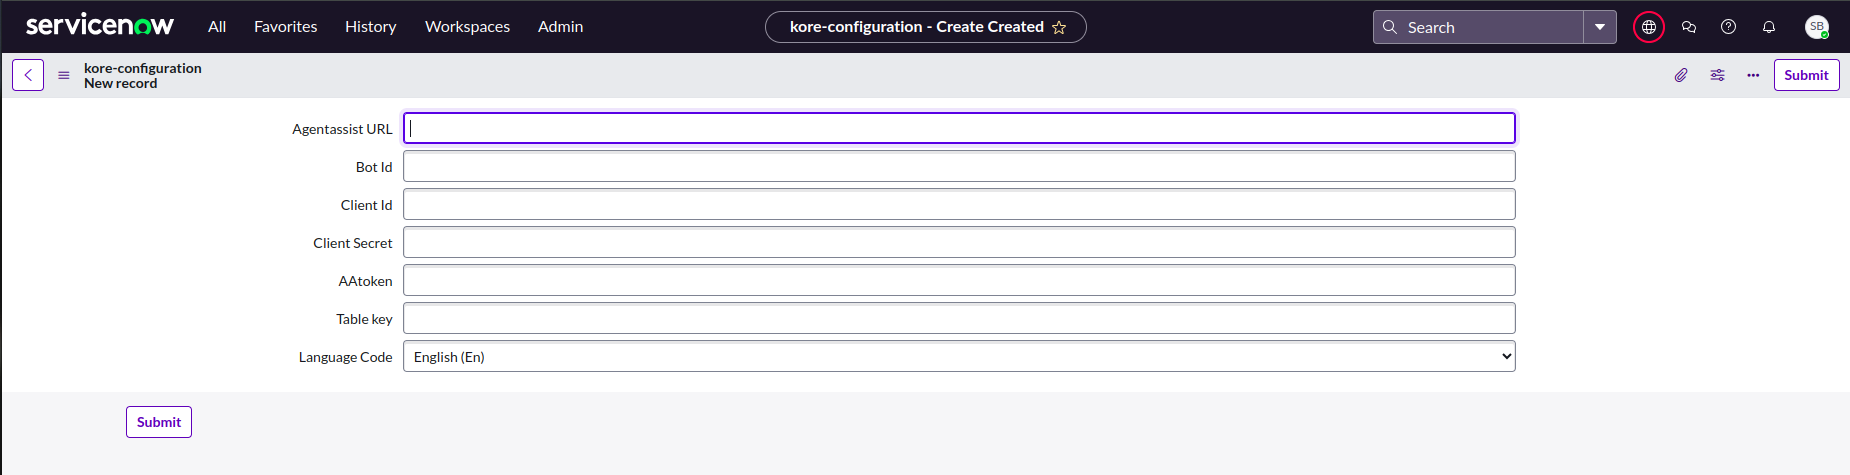
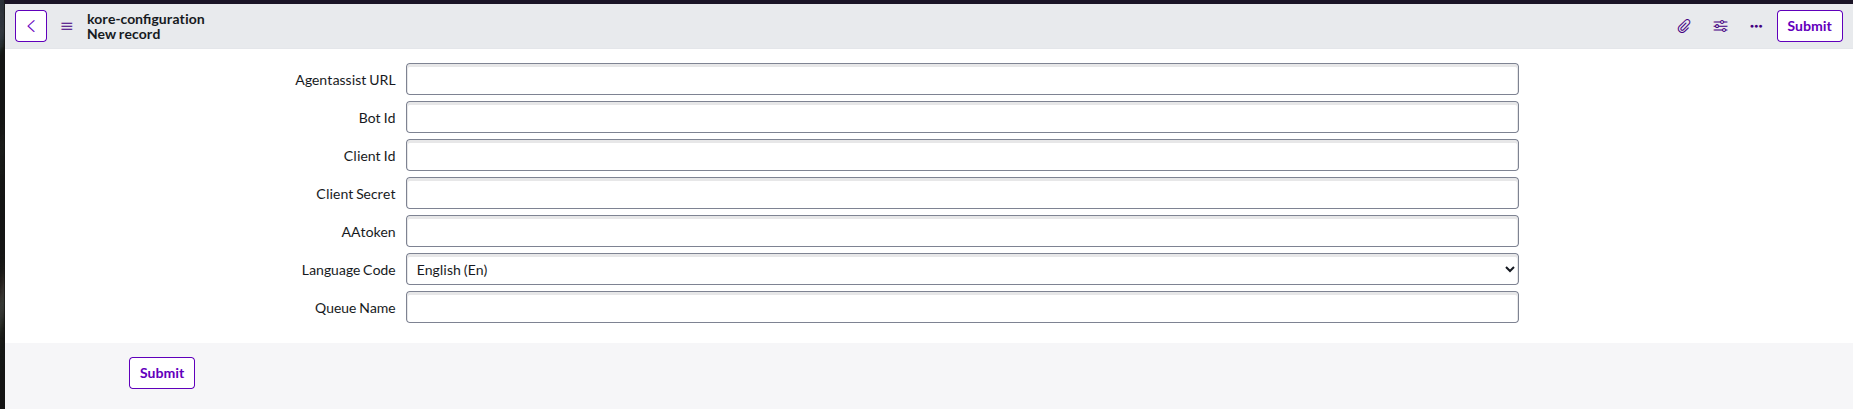
major updates on the servicenow integ doc

Changed region(s): [[0.1541, 0.176, 0.8319, 0.7922], [0.0, 0.0, 1.0, 0.2054], [0.0616, 0.8509, 0.1232, 0.9389]]

diff --git a/docs/xo/agentai/integration/servicenow/chat-integration-with-servicenow.md b/docs/xo/agentai/integration/servicenow/chat-integration-with-servicenow.md
@@ -1,6 +1,34 @@
-# Agent AI Chat Integration with ServiceNow
+# Agent AI Chat Integration with ServiceNow 
 
-This document provides detailed instructions on integrating the Agent AI widget with ServiceNow Desktop for the Chat channel. The integration supports [all Agent AI features](./../../agent-experience/agent-assist-widget-v3.md){:target=”_blank”}. It also includes an end-of-call summary and Custom Data passing, such as agent name and ID, to the Agent AI widget.
+This document provides detailed instructions on integrating the Agent AI widget with ServiceNow Desktop for the Chat channel. The integration supports [all Agent AI features](./../../agent-experience/agent-assist-widget-v3.md){:target=”_blank”}, including end-of-call summary and Custom Data passing (for example, agent name and ID) to the Agent AI widget. 
+
+## Supported ServiceNow Workspaces
+
+* HR Agent Workspace: Supported (validated)
+* IT/Service Operations Workspace: Supported (validated)
+* Other workspaces (CSM, custom): Supported, if they follow the HR-workspace pattern
+
+## Key Architectural Clarification
+
+Agent AI is a reusable UI component that you can embed in any workspace.
+
+* You must add the Agent AI component to each workspace individually.
+* Adding Agent AI to one workspace does not make it available in other workspaces within the same instance.
+* Agent AI is not automatically propagated across workspaces.
+
+### Adding Agent AI to a Specific Workspace
+
+1. Sign in to the **ServiceNow** instance. 
+2. Search in the **All** > **Filter** navigator. 
+3. Go to **UI Builder** > **Experiences** > **Workspace Experience** > **UI Builder**. 
+4. Select the target workspace—**HR**/**IT**/**Custom**. 
+5. Add the **Agent AI by kore.ai** component to the **Record Page**.
+6. Bind it to the agent panel or desired region. Refer to the [Data Binding(sysId)](#additional-configuration-for-hr-agent-workspace-optional) section for help.  
+7. Publish the workspace.
+
+    !!! note
+
+        There is no configuration flag to associate Agent AI with a workspace. You determine the workspace by embedding the component there.
 
 ## Prerequisites
 
@@ -12,7 +40,7 @@ This section outlines the essential components, credentials, and permissions req
         * Configured to receive desktop chats
     * Agent AI Account
         * Enabled Web/Mobile channel
-        * Required AI Agent credentials: Bot ID, Client ID, Client Secret, and Widget URL (Credential Location: Go to **agent ai** > **Flows and Channels** > **Channels** > **Digital** > **Web/Mobile Client** > **JWT App Details**.)
+        * Required AI Agent credentials: Bot ID, Client ID, Client Secret, and Widget URL (Credential Location: Go to **Agent AI** > **Flows and Channels** > **Channels** > **Digital** > **Web/Mobile Client** > **JWT App Details**.)
 * Roles and Permissions:
     * ServiceNow: Admin Role
     * XO Platform (Optional): Required only if you are doing an Agent Transfer from XO Platform to ServiceNow. For more information, refer to [Configuring the ServiceNow Agent – Utah and Higher versions](./../../../app-settings/integrations/agents/servicenow/configuring-the-servicenow-agent-utah-and-vancouver.md){:target=”_blank”}.
@@ -25,21 +53,21 @@ The following architecture diagram shows the interaction between ServiceNow and 
 
 ## Set Up Agent AI in ServiceNow Sandbox
 
-Setting Up Agent AI chat with ServiceNow consists of the following steps:
+Setting Up Agent AI chat with ServiceNow includes the following steps:
 
-1. Set Up Agent AI in ServiceNow Sandbox 
+* Set Up Agent AI in ServiceNow Sandbox 
     * [Download from the ServiceNow Store (recommended)](#step-1-download-from-the-servicenow-store-recommended), 
     or
     * [Install Using an Update Set](#install-using-an-update-set)
-2. [Set Up Agent AI App Configuration](#step-2-set-up-agent-ai-application-configuration)
-3. [Test the Configuration](#step-3-test-the-integration)
-4. [XO Configuration (Optional)](#step-4-xo-configuration-optional)
-5. [Using the Agent AI widget](#step-5-using-the-agent-ai-widget)
+* [Set Up Agent AI App Configuration](#step-2-set-up-agent-ai-application-configuration)
+* [Test the Configuration](#step-3-test-the-integration)
+* [XO Configuration (Optional)](#step-4-xo-configuration-optional)
+* [Using the Agent AI widget](#step-5-using-the-agent-ai-widget)
 
 ### Step 1: Download from the ServiceNow Store (recommended)
 
 1. Get the [Agent AI by Kore.ai](https://store.servicenow.com/sn_appstore_store.do#!/store/application/92d544cec3da0a9082881b6ce0013194/1.0.0?referer=%2Fstore%2Fsearch%3Flistingtype%3Dallintegrations%25253Bancillary_app%25253Bcertified_apps%25253Bcontent%25253Bindustry_solution%25253Boem%25253Butility%25253Btemplate%25253Bgenerative_ai%25253Bsnow_solution%26q%3Dkore&sl=sh){:target=”_blank”} application from the ServiceNow store.
-2. Click the **GET** button to proceed with the entitlement process of the application.
+2. Click **GET** to begin the application entitlement process.
 3. Select the organization name where you want to install this application.  
 <img src="../images/servicenow-org-selection.png" alt="org-name-selection" title="org-name-selection" style="border: 1px solid gray; zoom:80%;">
 
@@ -52,7 +80,7 @@ Setting Up Agent AI chat with ServiceNow consists of the following steps:
 3. Under **Related Links**, click **Import Update Set from XML**.  
 <img src="../images/import-update-xml.png" alt="import-update-xml" title="import-update-xml" style="border: 1px solid gray; zoom:80%;">
 
-4. Open the update set **Agent AI by kore.ai** (this is the official name for Agent AI).
+4. Open the update set **Agent AI by kore.ai** (official update set name).
 
 #### Preview Update Set
 
@@ -61,13 +89,13 @@ To preview the update set, click the **Preview Update Set** tab.
 
 #### Commit Update Set
 
-This option is enabled after the successful preview. You must click **Commit Update Set**.
+This option becomes available after a successful preview. Click **Commit Update Set** to proceed.
 
 <img src="../images/commit-update-set.png" alt="commit-update-set" title="commit-update-set" style="border: 1px solid gray; zoom:80%;">
 
 ##### Tips
 
-If you get any error (refer to the following screenshot) in the preview step, follow the below steps to resolve the error.
+If you get any error (refer to the following screenshot) in the preview step, perform the following steps to resolve it.
 
 <img src="../images/update-set-preview-error.png" alt="update-set-preview-error" title="update-set-preview-error" style="border: 1px solid gray; zoom:80%;">
 
@@ -75,7 +103,7 @@ Steps to resolve the error:
 
 * Close the **Update Set Preview** dialog window.
 * Go to **Update Set Review Problems**, and select all.
-* On the right-side, select **Accept remote update** from the **Action on selected rows…** drop-down list. 
+* On the right side of the page, select **Accept remote update** from the **Action on selected rows…** drop-down list. 
 
     !!! note
 
@@ -85,7 +113,7 @@ Steps to resolve the error:
 
 Application Name: **Agent AI by kore.ai**
 
-This section details the steps to set up the Agent AI app configuration.
+This section outlines the steps configure the Agent AI app. With the multibot solution in ServiceNow, you can configure multiple Agent AI bots. The system renders the appropriate bot when a chat enters a specific ServiceNow queue.
 
 #### Add Agent configuration in the ServiceNow Custom Table
 
@@ -94,21 +122,16 @@ This section details the steps to set up the Agent AI app configuration.
 
     <img src="../images/kore-config-customtable.png" alt="kore-config-customtable" title="kore-config-customtable" style="border: 1px solid gray; zoom:80%;">
 
-3. Click **New.**
-
-4. Add the **Agent AI URL**, **Bot Id**, **Client Id**, **Client Secret**. Refer to [Prerequisite](#prerequisites) and **Table Key** (give the Table Key as **koreai**).
-
-    !!! note
-
-        The Client Secret & Token fields are masked for security reasons.        
-        
-5. **Language Code**: For any language other than English, select the language code from the drop-down list. The default language code is English (En).
+3. Click **New**. 
+4. Add the **Agent AI URL**, **Bot Id**, **Client Id**, **Client Secret**, **Language Code**, and **Queue Name**. Refer to [Prerequisite](#prerequisites).  
+    * **Language Code**: For any language other than English, select the language code from the drop-down list. The default language code is English (En).
+    * **Queue Name:** To configure the same AI Agent credentials for multiple queues, use comma-separated queue names (for example, customer_queue, sales_queue, service_queue). 
 
 6. Click **Submit**.
 
     !!! note
 
-        The **AAtoken** field must be empty for the widget to load. The Token field automatically populates at the runtime.
+        The **Client Secret** and **AAtoken** field must be empty for the widget to load. The AAtoken field automatically populates at the runtime.
 
     <img src="../images/aatoken.png" alt="aatoken" title="aatoken" style="border: 1px solid gray; zoom:80%;">
 
@@ -129,7 +152,7 @@ Sample v2 URL: https://<domain-name\>.kore.ai
 
     !!! note
 
-        ESC portal link: &lt;Servicenow domain>/esc.
+        ESC portal link: &lt;ServiceNow domain>/esc.
    
     <img src="../images/chat-initiate.png" alt="Chat Initiate" title="Chat Initiate" style="border: 1px solid gray; zoom:80%;">
 
@@ -142,7 +165,7 @@ Sample v2 URL: https://<domain-name\>.kore.ai
 
         <img src="../images/agent-ai-contextual-panel.png" alt="agent-ai-contextual-panel" title="agent-ai-contextual-panel" style="border: 1px solid gray; zoom:80%;">
 
-    * Once a conversation ends, the conversation summary is generated in the Agent AI widget. 
+    * Once a conversation ends, the Agent AI widget generates the conversation summary. 
 
         <img src="../images/agent-ai-conversation-summary.png" alt="agent-ai-conversation-summary" title="agent-ai-conversation-summary" style="border: 1px solid gray; zoom:80%;">
 
@@ -150,65 +173,40 @@ Sample v2 URL: https://<domain-name\>.kore.ai
 
 This step is required if the chat client is routed through the XO AI Agent builder, and post agent transfer, it lands into the ServiceNow Agent workspace. For more information, refer to [Configuring the ServiceNow Agent – Utah and Higher versions](../../../app-settings/integrations/agents/servicenow/configuring-the-servicenow-agent-utah-and-vancouver.md){:target=”_blank”}.
 
-For passing the language code dynamically from XO to the Agent AI widget inside ServiceNow, add the following javascript code inside a script node of XO dialog task before the Agent Transfer node of ServiceNow. Without this script node, the language code won't be automatically sent to the Agent AI widget.
+For passing the language code and custom data dynamically from XO to the Agent AI widget inside ServiceNow, add the following javascript code inside a script node of XO dialog task before the Agent Transfer node of ServiceNow. Without this script node, the language code and custom data won't be automatically sent to the Agent AI widget. To access custom data in the Agent AI widget, refer to the [Access Custom Data in Agent AI App](../../agent-experience/access-custom-data-in-agent-ai.md) doc. 
 
+The following example shows how to pass data to Agent AI using the `customdata` field: 
 
-``` json
+```
 let metaData = {
 	"payloadFields" : {
-    		"langCode":context.currentLanguage
+    		"langCode":context.currentLanguage,
+		"customdata": {
+			"userId": context.session.BotUserSession.userId
+		}
 	},
 	"headerFields" : {
     		"token" : ""
 	}
 }
-agentUtils.setMetaInfo("ServiceNowMetaData", JSON.stringify(metaData));  
-
+agentUtils.setMetaInfo("ServiceNowMetaData", JSON.stringify(metaData)); 
 ```
 
    <img src="../images/script-node.png" alt="Language Code" title="Language Code" style="border: 1px solid gray; zoom:80%;">
 
 !!! note
 
-    If a Language Code is sent from XO to ServiceNow, then the Agent AI widget will load according to that language code. So, the XO language code will always take precedence over the language code set inside the ServiceNow custom table in Step 2.
-
-### Step 5: Using the Agent AI widget
+    If a Language Code is sent from XO to ServiceNow, then the Agent AI widget will load according to that language code. So, the XO language code will always take precedence over the language code set inside the ServiceNow custom table in Step 2. 
 
 From the integration perspective, along with all the features and capabilities of Agent AI [Introduction to Agent AI](./../../agent-experience/agent-assist-widget-v3.md){:target=”_blank”}, agents on ServiceNow have the flexibility to use the following additional features:
 
-
 * **Send / Copy Buttons:** Agents can use the **Send** and **Copy** buttons on the Agent AI UI to directly send and copy data from the Agent AI widget to the customer.  
-<img src="../images/send-copy-button.png" alt="send-copy-button" title="send-copy-button" style="border: 1px solid gray; zoom:80%;">
 
-* **Conversation Summary / End Of Conversation**: The conversation summary is displayed in the Summary box on the Agent AI widget after the end of the conversation when the conversation is closed/ended by agents or customers. Agents have the flexibility to copy this summary on their notepad or save it. If the **Submit Summary** option is used, the summary is saved inside the interaction table of that conversation.  
-<img src="../images/submit-summary.png" alt="send-copy-button" title="send-copy-button" style="border: 1px solid gray; zoom:80%;">
+* **Conversation Summary / End Of Conversation**: The conversation summary appears in the **Summary** box of the Agent AI widget after the conversation ends. Agents can copy the summary to their notepad or save it. When agents select **Submit Summary**, the system saves the summary in the interaction table for that conversation.    
+    <img src="../images/submit-summary.png" alt="send-copy-button" title="send-copy-button" style="border: 1px solid gray; zoom:80%;">
 
 * **Conversation logs:** Agents or supervisors can check the chat transcript along with the Agent AI summary on the Interaction record page.  
 <img src="../images/conversation-logs.png" alt="send-copy-button" title="send-copy-button" style="border: 1px solid gray; zoom:80%;">
-
-## Multibot Solution with ServiceNow
-
-With the multibot solution in ServiceNow, you can configure multiple Agent AI bots which will be rendered when chat comes in different Servicenow queues.
-
-### Set Up Agent AI in ServiceNow
-
-Obtain the update set .xml file from the company representative. Once you successfully commit the update set, follow the below steps:
-
-#### Add Agent AI Configuration in the ServiceNow Custom Table
-
-1. Change your **ServiceNow** scope from **Global** to **Agent AI by kore.ai**.
-2. Go to **All** > **Filter** **navigator**, and search **Kore_configuration** > **kore-config-customtable**. 
-<img src="../images/koreconfig-customtable-1.png" alt="koreconfig-customtable" title="koreconfig-customtable" style="border: 1px solid gray; zoom:80%;"> 
-3. Click **New**.
-4. Add the **AgentAssist URL**, **Bot Id**, **Client Id**, **Client Secret**, **Language Code**, and **Queue Name** in the table fields.
-    1. **Language Code**: To select a language other than English, select the **language code** from the dropdown list. The default language code is English (En).
-    2. **Queue Name**: To configure the same AI Agent credentials for multiple queues, use comma-separated queue names (for example, customer_queue, sales_queue, service_queue).
-
-        !!! note
-            **Client Secret** and **AAToken** fields are masked for security reasons. The **AAtoken** field must be empty for the widget to load, it automatically populates at the runtime.
-
-5. Click **Submit**.  
-<img src="../images/koreconfig-new-record-2.png" alt="koreconfig-new-record" title="koreconfig-new-record" style="border: 1px solid gray; zoom:80%;">
 
 #### Additional Configuration for HR Agent Workspace (Optional)
 
@@ -222,8 +220,10 @@ Follow this step only if you use the HR Agent Workspace to receive incoming chat
 <img src="../images/hragent-workspace-4.png" alt="hragent-workspace" title="hragent-workspace" style="border: 1px solid gray; zoom:80%;">
 5. Search with **Case SRP variant** (under the **Record** page).
 6. Create a copy of **Case SRP variant**, if the above one is read only.  
-<img src="../images/record-5.png" alt="record" title="record" style="border: 1px solid gray; zoom:80%;">
-7. Open the **Case SRP copy**, and add the **KoreaiWidget** component to the right sidebar. Follow the below steps:
+    <img src="../images/record-5.png" alt="record" title="record" style="border: 1px solid gray; zoom:80%;">  
+7. Open the **settings** of **Case SRP copy** and change the value of **Order** to **10**.  
+    <img src="../images/case-srp-copy.png" alt="case-srp-copy" title="case-srp-copy" style="border: 1px solid gray; zoom:80%;">  
+8. Open the editor for **Case SRP copy**, and add the **KoreaiWidget** component to the right sidebar. Follow these steps:
     1. Go to **Body** > **Resizable panes** > **right** > **Tab sidebar**
     2. **Add** a new tab (preferably, select **start from an empty container**).  
     <img src="../images/tab-sidebar-6.png" alt="tab-sidebar" title="tab-sidebar" style="border: 1px solid gray; zoom:80%;"> 
@@ -237,18 +237,26 @@ Follow this step only if you use the HR Agent Workspace to receive incoming chat
     6. To render the widget vertically and take up the full height of the workspace, set the height of the parent TAB (Eg- KoreAA-HR) to 100%.  
     <img src="../images/parent-tab-8.png" alt="parent-tab" title="parent-tab" style="border: 1px solid gray; zoom:80%;">
 
-##### Data Binding(sysId)
+    7. Perform the following steps to proceed with Data Binding (sysId):
+        1. Click the **KoreaiWidget** again.
+        2. Update **Config** > **sysId** as following:
+           * Change the input option to **Bind Data**.
+           * Type **[@context](https://github.com/context).props.sysId** (you get an auto suggestion).  
+            <img src="../images/data-binding-9.png" alt="data-binding" title="data-binding" style="border: 1px solid gray; zoom:80%;"> 
 
-1. Click the **KoreaiWidget** again. 
-2. Update **Config** > **sysId** as following:
-   * Change the input option to **Bind Data**.
-   * Type **@context.props.sysId** (you get an auto suggestion).  
-   <img src="../images/data-binding-9.png" alt="data-binding" title="data-binding" style="border: 1px solid gray; zoom:80%;">  
-   
-    !!! note
-        You need this step to dynamically send the sysId of the current interaction to the Kore Agent AI UI component. While this solution includes a fallback method in case the Data Binding step is skipped, we recommend this step for a more reliable and robust integration. Without it(Data Binding), concurrent chats handled by a single agent may lose context during page reloads or network latency.
+        !!! note
+        
+            You must complete this step to dynamically send the **sysid** of the current interaction to the Agent AI UI component. Although the solution includes a fallback method, you should not skip the Data Binding step. If you skip it, concurrent chats handled by a single agent can lose context during page reloads or network latency.
+
+    8. Once the changes are done, click **Save**.  
+
+### Widget Configuration and Scope Requirements
+
+* **Widget icon:** ServiceNow doesn’t automatically add the widget icon. You must configure it manually due to a ServiceNow limitation.
+* **Widget scope:** Use the **Agent AI by[Kore.ai](http://Kore.ai)** scope to ensure safer upgrades. Although the **Global** scope works, it doesn’t support long-term maintainability. 
+* **Per-workspace requirement:** Each workspace requires its own widget/icon configuration.
 
 ### No Widget for Inactive Conversation
 
-With the multibot solution, this additional feature is developed. If there is no active conversation, the following UI is visible to the agents:  
+The multibot solution includes an additional feature that hides the widget when no conversation is active. The following screen appears when there is no active conversation:  
 <img src="../images/widget-unavailable-10.png" alt="widget-unavailable" title="widget-unavailable" style="border: 1px solid gray; zoom:80%;">
